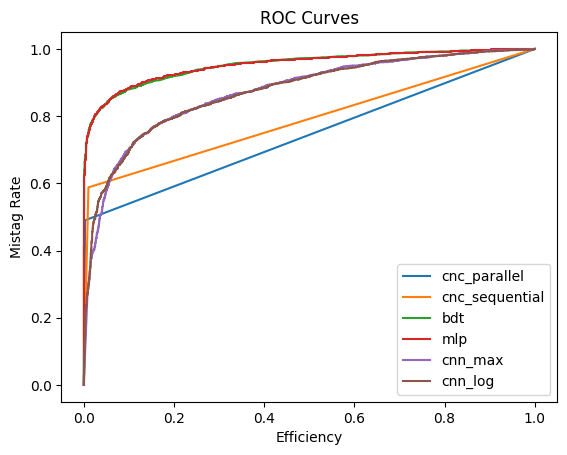
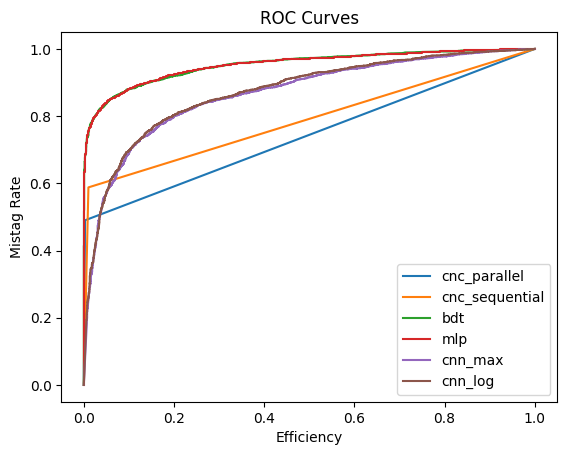
doc: Update the guides

diff --git a/docs/guides/03_apply_approaches.md b/docs/guides/03_apply_approaches.md
@@ -10,17 +10,22 @@ import numpy as np
 import matplotlib.pyplot as plt
 from keras import ops
 from rich.table import Table
+
 # Dataset
+from sklearn.preprocessing import MinMaxScaler
 from hml.datasets import load_dataset
+
 # Approaches
 from hml.approaches import CutAndCount as CNC
 from hml.approaches import GradientBoostedDecisionTree as BDT
 from hml.approaches import SimpleCNN as CNN
 from hml.approaches import SimpleMLP as MLP
+
 # Evaluation
 from keras.metrics import Accuracy, AUC
 from sklearn.metrics import roc_curve
 from hml.metrics import MaxSignificance, RejectionAtEfficiency
+
 # Save and load
 from hml.approaches import load_approach
 ```
@@ -30,6 +35,7 @@ Then we use a dictionary to store the benchmark results and define a helper func
 ```python
 results = {}
 
+
 def get_result(approach, x_test, y_test):
     y_pred = approach.predict(x_test, verbose=0)
 
@@ -37,11 +43,17 @@ def get_result(approach, x_test, y_test):
 
     result = {
         approach.name: {
-            "acc": convert_to_numpy(Accuracy()(y_test, y_pred.argmax(axis=1))).item(),
-            "auc": convert_to_numpy(AUC()(y_test, y_pred[:, 1])).item(),
-            "sig": convert_to_numpy(MaxSignificance()(y_test, y_pred)).item(),
-            "r50": convert_to_numpy(RejectionAtEfficiency(0.5)(y_test, y_pred)).item(),
-            "r99": convert_to_numpy(RejectionAtEfficiency(0.99)(y_test, y_pred)).item(),
+            "acc": ops.convert_to_numpy(
+                Accuracy()(y_test, y_pred.argmax(axis=1))
+            ).item(),
+            "auc": ops.convert_to_numpy(AUC()(y_test, y_pred[:, 1])).item(),
+            "sig": ops.convert_to_numpy(MaxSignificance()(y_test, y_pred)).item(),
+            "r50": ops.convert_to_numpy(
+                RejectionAtEfficiency(0.5)(y_test, y_pred)
+            ).item(),
+            "r99": ops.convert_to_numpy(
+                RejectionAtEfficiency(0.99)(y_test, y_pred)
+            ).item(),
             "fpr": fpr,
             "tpr": tpr,
         }
@@ -118,7 +130,7 @@ results.update(get_result(cnc1, x_test, y_test))
 results.update(get_result(cnc2, x_test, y_test))
 ```
 
-## Boosted Decision Tree
+## Gradient boosted decision tree
 
 We adapt `GradientBoostingClassifier` from `sklearn` to work as a `Keras` model:
 
@@ -140,7 +152,7 @@ bdt.fit(x_train, y_train)
 <div class="result" markdown>
 
 ```
-100/100 ━━━━━━━━━━━━━━━━━━━━ 2s 18ms/step - loss: 0.5614 - accuracy: 0.9005
+100/100 ━━━━━━━━━━━━━━━━━━━━ 2s 19ms/step - loss: 0.2807 - accuracy: 0.9005
 ```
 
 </div>
@@ -155,7 +167,7 @@ Add the results to the dictionary:
 results.update(get_result(bdt, x_test, y_test))
 ```
 
-## Simple Multi-Layer Perceptron
+## Simple multi-layer perceptron
 
 Currently, HML provides a toy multi-layer perceptron to perform simple analysis:
 
@@ -196,29 +208,32 @@ Trainable params: 4,386 (17.13 KB)
 Non-trainable params: 0 (0.00 B)
 ```
 
+</div>
+
 ```python
 # Training
 mlp.compile(loss="crossentropy", metrics=["accuracy"])
 mlp.fit(x_train, y_train, batch_size=128, epochs=100)
+results.update(get_result(mlp, x_test, y_test))
 ```
 
 <div class="result" markdown>
 
 ```
 Epoch 1/100
-99/99 ━━━━━━━━━━━━━━━━━━━━ 2s 7ms/step - accuracy: 0.7172 - loss: 0.5586
+99/99 ━━━━━━━━━━━━━━━━━━━━ 2s 7ms/step - accuracy: 0.7073 - loss: 0.5788
 Epoch 2/100
-99/99 ━━━━━━━━━━━━━━━━━━━━ 0s 3ms/step - accuracy: 0.8607 - loss: 0.3469
+99/99 ━━━━━━━━━━━━━━━━━━━━ 0s 3ms/step - accuracy: 0.8625 - loss: 0.3370
 ...
 Epoch 99/100
-99/99 ━━━━━━━━━━━━━━━━━━━━ 0s 3ms/step - accuracy: 0.9025 - loss: 0.2489
+99/99 ━━━━━━━━━━━━━━━━━━━━ 0s 3ms/step - accuracy: 0.8954 - loss: 0.2585
 Epoch 100/100
-99/99 ━━━━━━━━━━━━━━━━━━━━ 0s 3ms/step - accuracy: 0.9031 - loss: 0.2483
+99/99 ━━━━━━━━━━━━━━━━━━━━ 0s 3ms/step - accuracy: 0.9016 - loss: 0.2526
 ```
 
 </div>
 
-## Simple Convolutional Neural Network
+## Simple convolutional neural network
 
 We also provide a toy CNN to perform simple analysis. There're two ways to normalize the images: using the maximum value of each image or applying `log` to each pixel.
 
@@ -305,35 +320,16 @@ results.update(get_result(cnn1, x_test, y_test))
 
 ```
 Epoch 1/100
-98/98 ━━━━━━━━━━━━━━━━━━━━ 3s 13ms/step - accuracy: 0.5247 - loss: 0.6885
+98/98 ━━━━━━━━━━━━━━━━━━━━ 4s 18ms/step - accuracy: 0.5386 - loss: 0.6891
 Epoch 2/100
-98/98 ━━━━━━━━━━━━━━━━━━━━ 0s 4ms/step - accuracy: 0.6175 - loss: 0.6423
+98/98 ━━━━━━━━━━━━━━━━━━━━ 0s 4ms/step - accuracy: 0.5982 - loss: 0.6491
 ...
 Epoch 99/100
-98/98 ━━━━━━━━━━━━━━━━━━━━ 0s 4ms/step - accuracy: 0.8224 - loss: 0.4165
+98/98 ━━━━━━━━━━━━━━━━━━━━ 0s 4ms/step - accuracy: 0.8107 - loss: 0.4378
 Epoch 100/100
-98/98 ━━━━━━━━━━━━━━━━━━━━ 0s 4ms/step - accuracy: 0.8115 - loss: 0.4251
+98/98 ━━━━━━━━━━━━━━━━━━━━ 0s 4ms/step - accuracy: 0.8104 - loss: 0.4392
 ```
 </div>
-
-```python
-# Dataset
-ds = load_dataset("./data/wjj_vs_qcd_image.ds")
-
-x_train, y_train = ds.train.samples, ds.train.targets
-x_test, y_test = ds.test.samples, ds.test.targets
-
-non_zero_train = x_train.reshape(x_train.shape[0], -1).sum(1) != 0
-non_zero_test = x_test.reshape(x_test.shape[0], -1).sum(1) != 0
-
-x_train, y_train = x_train[non_zero_train], y_train[non_zero_train]
-x_test, y_test = x_test[non_zero_test], y_test[non_zero_test]
-
-x_train = np.log(x_train + 1)
-x_test = np.log(x_test + 1)
-x_train = x_train[..., None]
-x_test = x_test[..., None]
-```
 
 ```python
 # Training
@@ -352,21 +348,21 @@ cnn2.fit(
     batch_size=128,
 )
 
-results.update(get_result(cnn2, x_test, y_test)
+results.update(get_result(cnn2, x_test, y_test))
 ```
 
 <div class="result" markdown>
 
 ```
 Epoch 1/100
-98/98 ━━━━━━━━━━━━━━━━━━━━ 3s 13ms/step - accuracy: 0.5914 - loss: 0.6731
+98/98 ━━━━━━━━━━━━━━━━━━━━ 3s 13ms/step - accuracy: 0.5350 - loss: 0.6880
 Epoch 2/100
-98/98 ━━━━━━━━━━━━━━━━━━━━ 0s 4ms/step - accuracy: 0.7587 - loss: 0.5235
+98/98 ━━━━━━━━━━━━━━━━━━━━ 0s 4ms/step - accuracy: 0.6368 - loss: 0.6431
 ...
 Epoch 99/100
-98/98 ━━━━━━━━━━━━━━━━━━━━ 0s 4ms/step - accuracy: 0.8278 - loss: 0.3906
+98/98 ━━━━━━━━━━━━━━━━━━━━ 0s 4ms/step - accuracy: 0.8183 - loss: 0.4266
 Epoch 100/100
-98/98 ━━━━━━━━━━━━━━━━━━━━ 0s 4ms/step - accuracy: 0.8424 - loss: 0.3684
+98/98 ━━━━━━━━━━━━━━━━━━━━ 0s 4ms/step - accuracy: 0.8174 - loss: 0.4242
 ```
 
 </div>
@@ -416,9 +412,9 @@ table
 │ cnc_parallel   │ 0.765086 │ 0.743599 │ 34.742661    │ 4.256874  │ 1.000000 │
 │ cnc_sequential │ 0.805868 │ 0.788848 │ 37.796890    │ 5.151141  │ 1.000000 │
 │ bdt            │ 0.899797 │ 0.952525 │ 44.131214    │ 86.015831 │ 1.997420 │
-│ mlp            │ 0.899428 │ 0.952812 │ 44.129673    │ 95.070129 │ 1.974135 │
-│ cnn_max        │ 0.809667 │ 0.873104 │ 39.128853    │ 18.534716 │ 1.261342 │
-│ cnn_log        │ 0.810978 │ 0.874385 │ 38.911655    │ 19.270756 │ 1.225999 │
+│ mlp            │ 0.897583 │ 0.952662 │ 44.056389    │ 96.767815 │ 1.953497 │
+│ cnn_max        │ 0.806482 │ 0.868102 │ 38.510403    │ 16.526314 │ 1.191518 │
+│ cnn_log        │ 0.808917 │ 0.873000 │ 38.833694    │ 17.852850 │ 1.232795 │
 └────────────────┴──────────┴──────────┴──────────────┴───────────┴──────────┘
 </pre>
 
